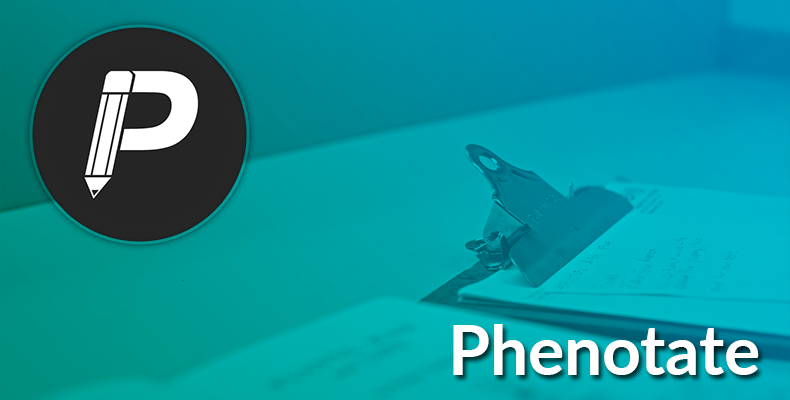
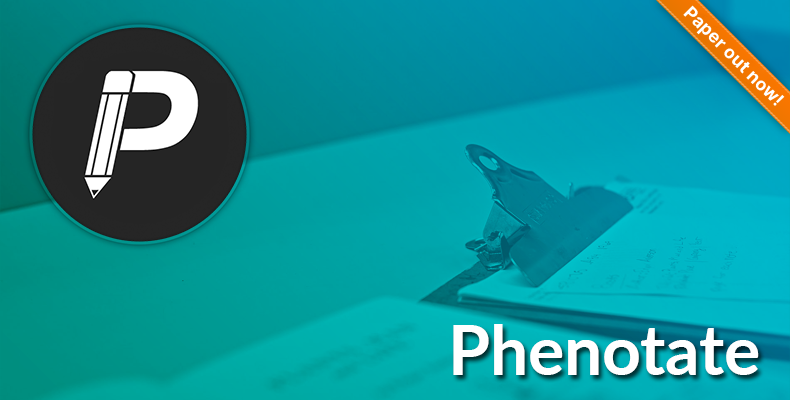
Add link to Phenotate paper

Changed region(s): [[0.8203, 0.0, 1.0, 0.33]]

diff --git a/index.html b/index.html
@@ -88,7 +88,7 @@
             url = null
             switch ($(this).attr('id')) {
               case "phenotate":
-                message = "The goal of Phenotate build a curated library of accurate, machine-readable disease annotations for differential diagnosis software. Researchers can contribute by annotating diseases using our intuitive software. To grow our library, professors can assign diseases for students to annotate for genetics and medical coursework. (2016 – present)"
+                message = 'The goal of Phenotate build a curated library of accurate, machine-readable disease annotations for differential diagnosis software. Researchers can contribute by annotating diseases using our intuitive software. To grow our library, professors can assign diseases for students to annotate for genetics and medical coursework. (2016 – present) <a href="https://www.nature.com/articles/s41436-020-0812-7" target="_blank">Read the paper in <i>Genetics in Medicine</i></a>'
                 url = "http://phenotate.org/"
                 break
               case "aus":
@@ -141,7 +141,7 @@
                 break
             }
             vex.dialog.alert({
-                message: message,
+                unsafeMessage: message,
                 callback: function (value) {
                   if (value) {
                     window.open(url, "_blank")
